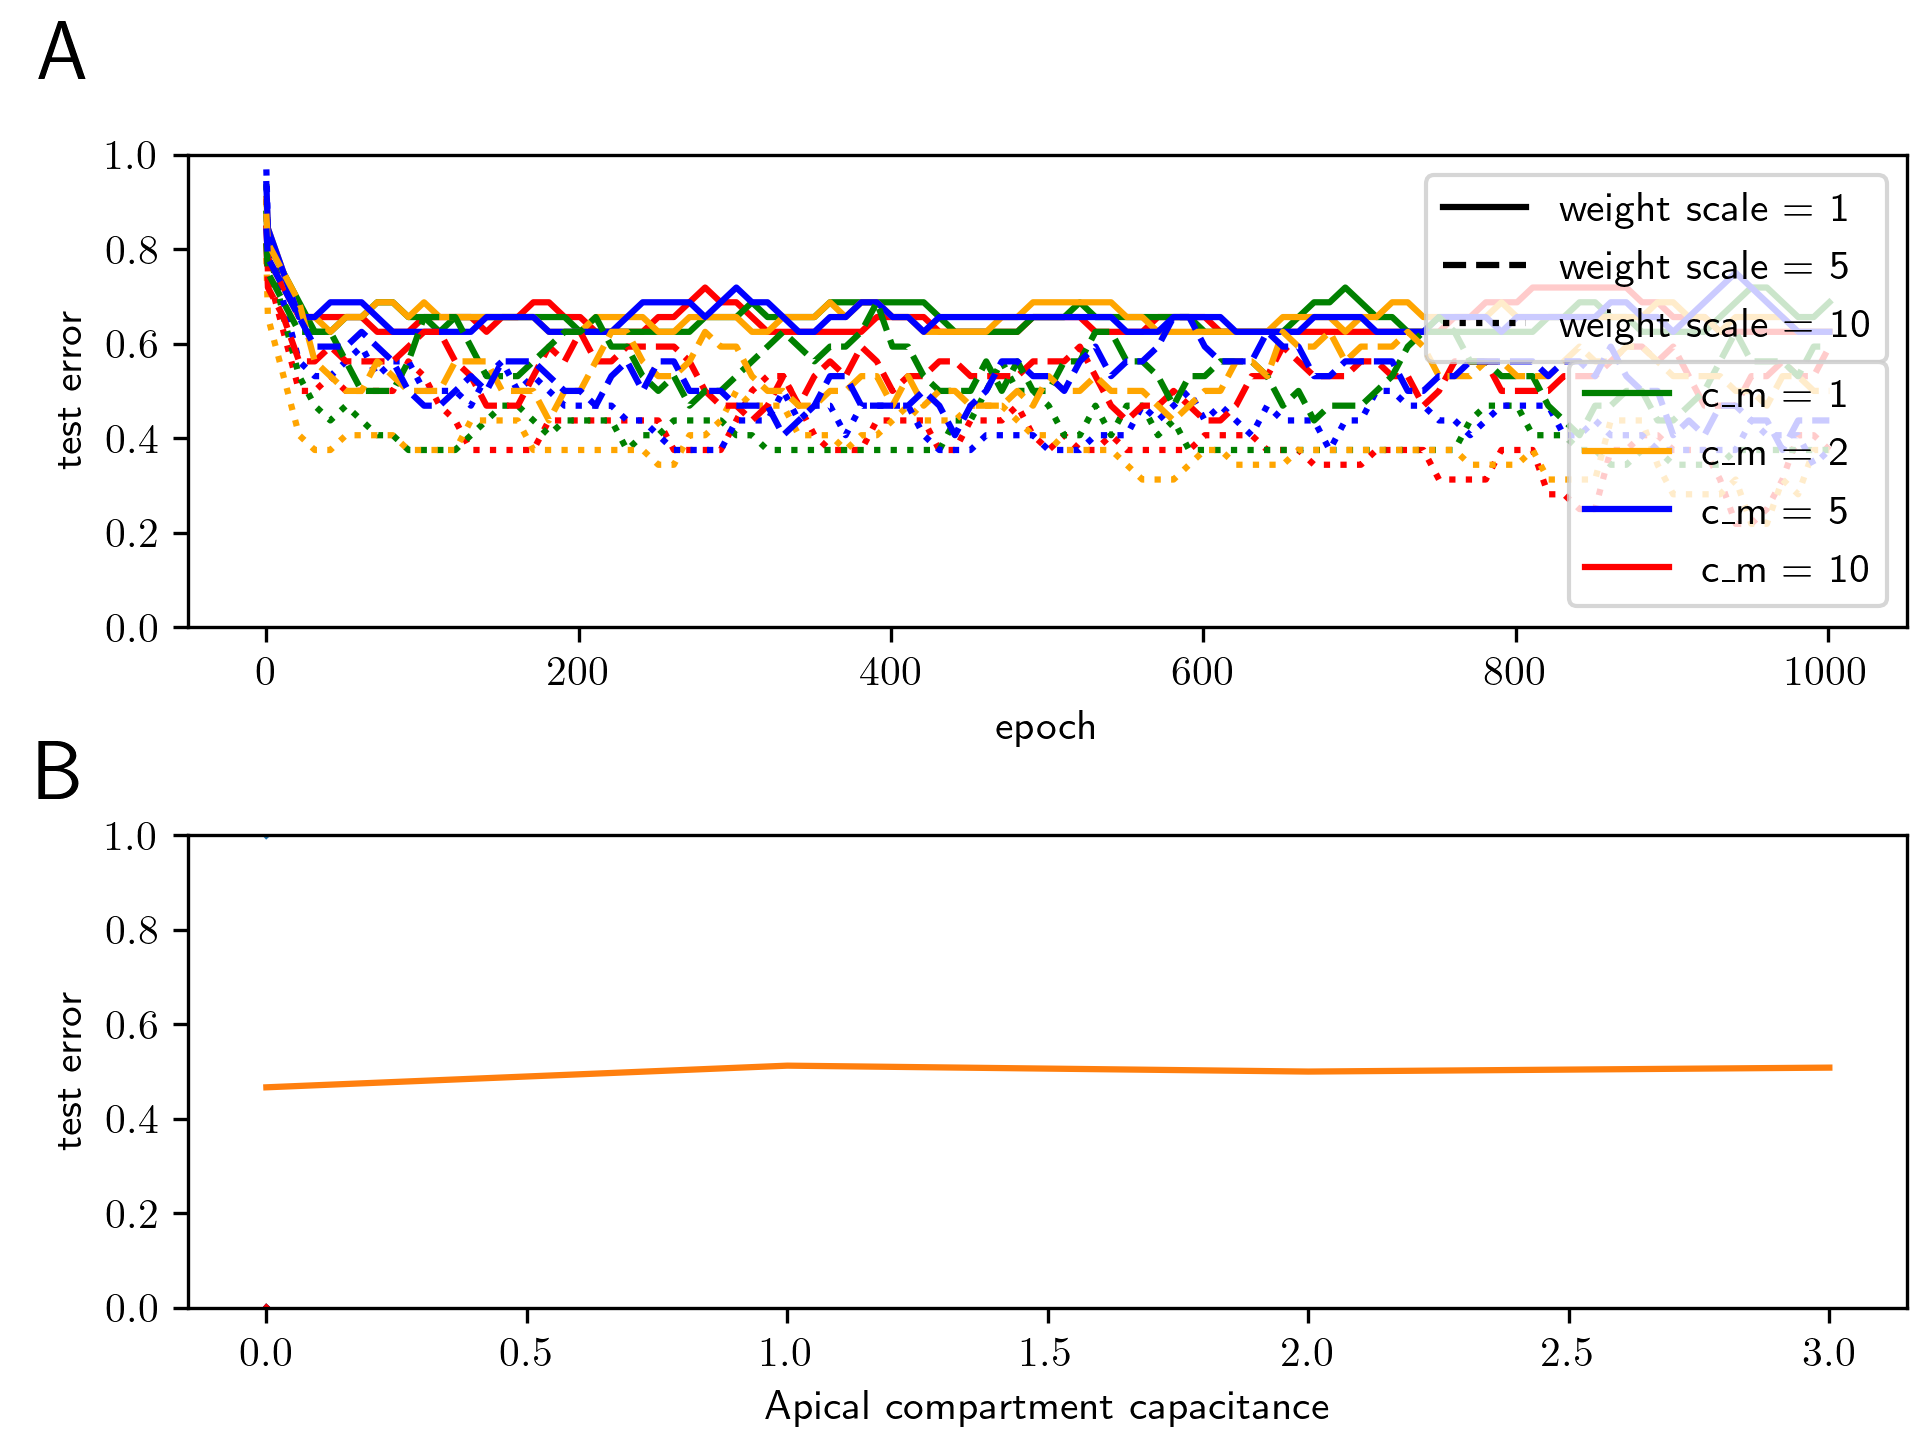
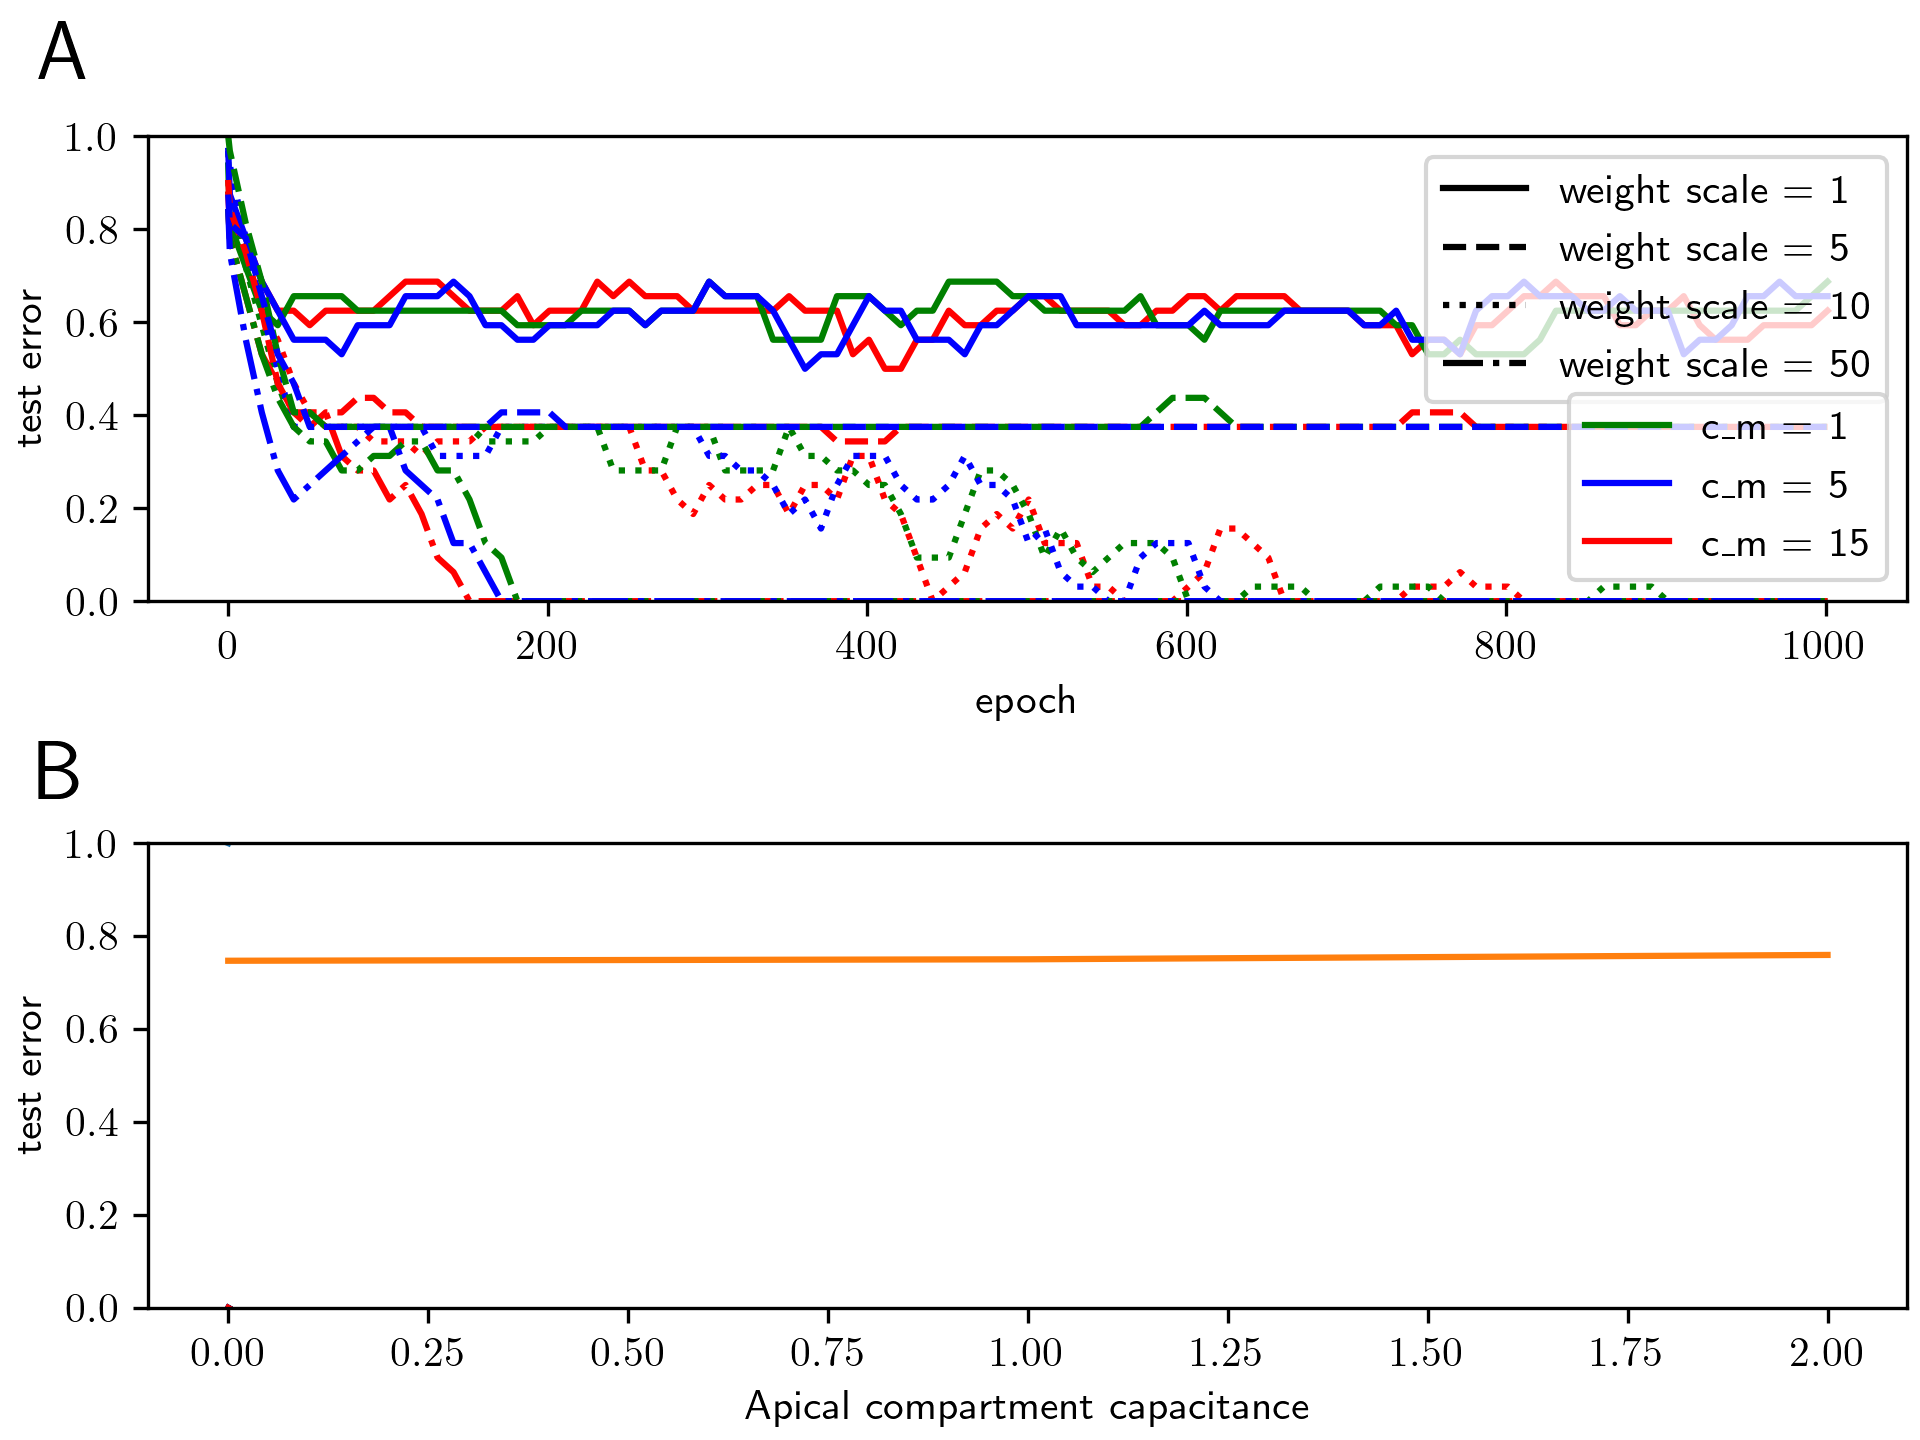
add parameter study evaluating c_m at low weight scales

diff --git a/pyramidal_microcircuit/scripts/fig_9_weight_scale_c_m.py b/pyramidal_microcircuit/scripts/fig_9_weight_scale_c_m.py
@@ -10,13 +10,13 @@ import src.utils as utils
 
 styles_weight_scale = {1: "solid",
                        5: "dashed",
-                       10: "dotted"}
+                       10: "dotted",
+                       50: "-."}
 
 
 colors_c_m = {1: "green",
-              2: "orange",
               5: "blue",
-              10: "red"}
+              15: "red"}
 
 
 filter_window = 4
@@ -37,7 +37,7 @@ if __name__ == "__main__":
 
     tau_eff = 1 / 0.19
 
-    accuracies = {c_m: [] for c_m in [1, 2, 5, 10]}
+    accuracies = {c_m: [] for c_m in [1, 5, 15]}
     for config in all_configs:
 
         with open(os.path.join(dirname, config, "progress.json")) as f:
